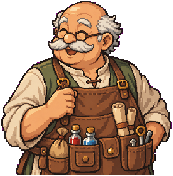
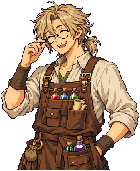
fix(starlantern): enemies leave room for the battle command window; sub windows top right; Japanese-style NPC redraws

diff --git a/src/styles/_starlantern-ui.scss b/src/styles/_starlantern-ui.scss
@@ -187,7 +187,7 @@ $slx-steps: 1, 0.95, 0.9, 0.85, 0.8, 0.75, 0.7, 0.65, 0.6, 0.55, 0.5;
 .slx-msg { left: 8px; right: 8px; top: 6px; min-height: 36px; white-space: pre-line; }
 .slx-bcmd { left: 6px; bottom: 70px; min-width: 132px; }
 .slx-who { color: $slx-gold; margin-bottom: 2px; }
-.slx-bsub { left: 150px; bottom: 70px; min-width: 200px; }
+.slx-bsub { right: 6px; top: 48px; min-width: 200px; }
 .slx-bsub .slx-right { min-width: 40px; text-align: right; }
 .slx-result { left: 50%; top: 50%; transform: translate(-50%, -50%); min-width: 260px; }
 .slx-result h3 { margin: 0 0 4px; font-size: 16px; font-weight: normal; color: $slx-gold; }
@@ -195,9 +195,11 @@ $slx-steps: 1, 0.95, 0.9, 0.85, 0.8, 0.75, 0.7, 0.65, 0.6, 0.55, 0.5;
 .slx-target { position: absolute; top: 118px; width: 12px; margin-left: -6px; text-align: center; color: $slx-gold; animation: slx-bob 0.6s ease-in-out infinite alternate; }
 @keyframes slx-bob { to { transform: translateY(4px); } }
 // One class per (enemy count, index): enemies stand at width * (i + 1) / (n + 1), as BattleView lays them out.
+// Must match BATTLE_LEFT in ui2/scenes/battle.ts.
+$slx-battle-left: 150px;
 @for $n from 1 through 4 {
   @for $i from 0 through $n - 1 {
-    .slx-target-#{$n}-#{$i} { left: 640px * ($i + 1) / ($n + 1); }
+    .slx-target-#{$n}-#{$i} { left: $slx-battle-left + (640px - $slx-battle-left) * ($i + 1) / ($n + 1); }
   }
 }
 @media (prefers-reduced-motion: reduce) { .slx-target { animation: none; } }

diff --git a/src/scripts/games/starlantern/render/BattleView.ts b/src/scripts/games/starlantern/render/BattleView.ts
@@ -26,7 +26,8 @@ export class BattleView {
 
   constructor(private fast = false, private bank: TextureBank | null = null) {}
 
-  setup(state: BattleState, size: { width: number; height: number }, floor: number): void {
+  /** `left` reserves space on the left (the command window) so enemies are never hidden behind it. */
+  setup(state: BattleState, size: { width: number; height: number }, floor: number, left = 0): void {
     for (const t of this.timers) clearTimeout(t);
     for (const f of this.frames) cancelAnimationFrame(f);
     this.timers.clear();
@@ -47,7 +48,7 @@ export class BattleView {
       this.root.addChild(new Graphics().rect(0, 0, size.width, size.height).fill(0x141826));
     }
     const n = state.enemies.length;
-    const slotW = size.width / (n + 1);
+    const slotW = (size.width - left) / (n + 1);
     state.enemies.forEach((e, i) => {
       const box = new Container();
       const body = new Container();
@@ -65,7 +66,7 @@ export class BattleView {
       const label = new Text({ text: e.name, style: { fill: 0xffffff, fontSize: 14, stroke: { color: 0x000000, width: 3 } } });
       label.anchor.set(0.5, 0);
       box.addChild(body, label);
-      box.x = slotW * (i + 1);
+      box.x = left + slotW * (i + 1);
       box.y = size.height * 0.85;
       box.alpha = e.alive ? 1 : 0;
       this.root.addChild(box);

diff --git a/src/scripts/games/starlantern/ui2/scenes/battle.ts b/src/scripts/games/starlantern/ui2/scenes/battle.ts
@@ -19,6 +19,9 @@ import { PartyBar } from '../partyBar';
 import type { Scene, SceneCtx } from '../scene';
 import { MenuView, win } from '../widgets';
 
+/** Width kept clear for the command window; must match $slx-battle-left in _starlantern-ui.scss. */
+export const BATTLE_LEFT = 150;
+
 interface Layer { el: HTMLElement; onAction(a: UiAction): boolean }
 type Pending = { kind: 'attack' } | { kind: 'skill'; skill: string } | { kind: 'item'; item: string } | { kind: 'ultimate' };
 
@@ -54,7 +57,7 @@ export class BattleScene implements Scene {
     root.append(this.body);
     if (this.ctx.stage) {
       this.ctx.stage.show('battle');
-      this.ctx.stage.battleView.setup(this.state, this.ctx.stage.size(), this.ctx.game.floor);
+      this.ctx.stage.battleView.setup(this.state, this.ctx.stage.size(), this.ctx.game.floor, BATTLE_LEFT);
     }
     this.msg.textContent = this.state.enemies.map((e) => e.name).join('、');
     this.startRound();

diff --git a/src/scripts/games/starlantern/render/BattleView.test.ts b/src/scripts/games/starlantern/render/BattleView.test.ts
@@ -54,3 +54,11 @@ describe('BattleView anchors', () => {
     expect(view.anchor('nobody')).toBeNull();
   });
 });
+
+describe('BattleView left inset', () => {
+  it('spreads enemies over the area right of the command window', () => {
+    const view = new BattleView(true, bank);
+    view.setup(battle([]), { width: 640, height: 360 }, 1, 160);
+    expect(view.anchor('e0')!.x).toBeCloseTo(160 + (640 - 160) / 2, 0);
+  });
+});

diff --git a/art-factory/starlantern/tools/batch.py b/art-factory/starlantern/tools/batch.py
@@ -88,11 +88,13 @@ UI_SCENES = {
     'inn': 'Interior of a warm inn lobby: fireplace, wooden stairs to the rooms, a front desk with a bell, rugs, evening light, the right third kept fairly plain',
     'gate': "Adventurers' camp at the edge of the glowing labyrinth crack: wooden palisade, a guard post, torches, supply crates, mist, the right third kept fairly plain",
 }
+# Japanese anime-style character design rendered as pixel art (user: keep pixel art, but the art style behind it should feel Japanese).
+JP = 'Japanese anime-style JRPG character design rendered as detailed pixel art, like a classic Japanese console RPG portrait: anime proportions, large expressive eyes, clean facial lines, stylised anime hair'
 UI_NPCS = {
-    'guild': ('the guild receptionist, a capable gentle woman in her twenties with short chestnut hair, a neat dark green vest uniform with a guild badge', 'guild hall'),
-    'shop': ('the item shop keeper, a cheerful plump old man with a white moustache, round glasses and an apron full of pockets', 'item shop'),
-    'inn': ('the innkeeper, a warm motherly woman in her forties with tied-back auburn hair, a blouse and a striped apron', 'inn'),
-    'gate': ('the gate guard, a grizzled veteran soldier with a scar over one eye, short grey beard, worn leather and steel armour, holding a spear', 'camp'),
+    'guild': (f'{JP}; the guild receptionist, a capable gentle young woman with short chestnut hair, a neat dark green vest uniform with a guild badge', 'guild hall'),
+    'shop': (f'{JP}; the item shop keeper, a cheerful youthful-looking man in his thirties with messy ash-blond hair tied back, narrow smiling eyes, round glasses, a brown apron full of pockets with potion bottles', 'item shop'),
+    'inn': (f'{JP}; the innkeeper, a kind young-looking woman with long auburn hair in a loose side braid, gentle eyes, a cream blouse and a striped apron', 'inn'),
+    'gate': (f'{JP}; the gate guard, a stern handsome veteran knight in his thirties with short silver hair, a small scar on the cheek, a red scarf, steel and leather armour, holding a spear', 'camp'),
 }
 
 
